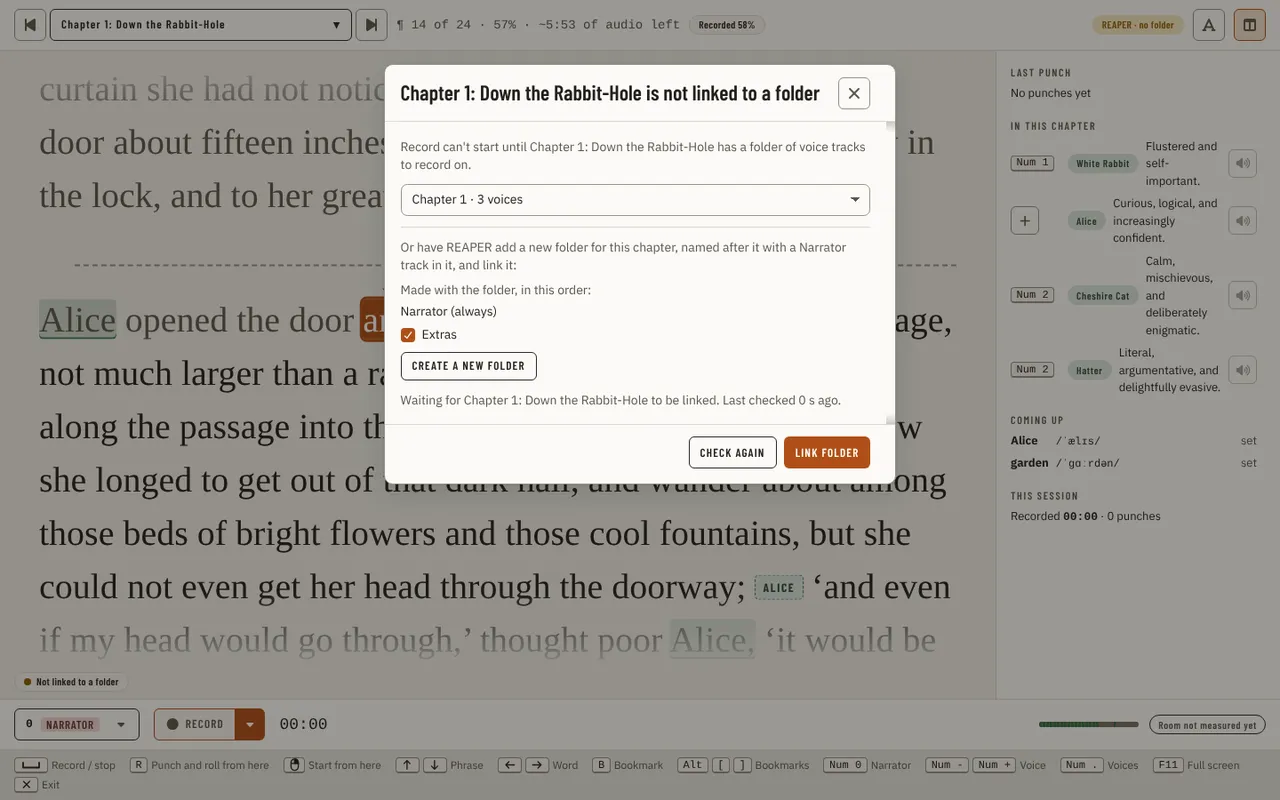
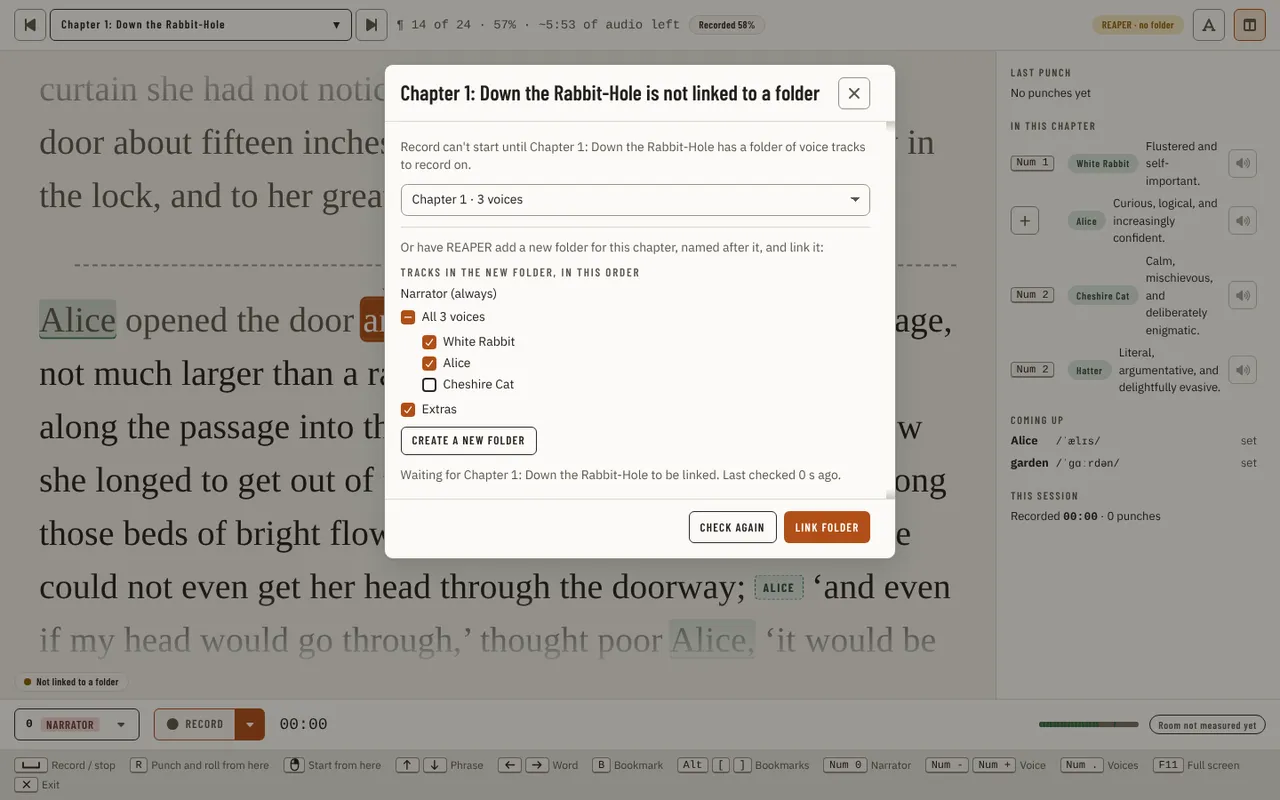
docs(guides): the new chapter folder images show a cast with voices
Refs #3748

Claude-Session: https://claude.ai/code/session_01EBTykevuJoEedqtRvqCegd

Changed region(s): [[0.2812, 0.3125, 0.7188, 0.7188], [0.5938, 0.2812, 0.6562, 0.3125]]

diff --git a/src/studio/ui/tests/visual/drivers/settings.ts b/src/studio/ui/tests/visual/drivers/settings.ts
@@ -237,7 +237,7 @@ export const settingsDrivers: Record<string, Driver> = {
     await row.getByRole('table', { name: /^Voices of / }).waitFor();
   },
   'recording-new-chapter-folder': async (page) => {
-    // The mock project assigns no voice but Extras, so the host's answer is set to the cast a real project has: three voices, one left out last time.
+    // The mock project assigns no voice but Extras, so the host's answer is set to the cast a real project has: three voices, all ticked (the default, so the row is not Changed).
     await page.addInitScript(() => {
       (window as unknown as { __NARRATION_MOCK_OVERRIDES__: Record<string, unknown> }).__NARRATION_MOCK_OVERRIDES__ = {
         chapterCreateOptions: async () => ({
@@ -246,7 +246,7 @@ export const settingsDrivers: Record<string, Driver> = {
           voices: [
             { name: 'White Rabbit', checked: true },
             { name: 'Alice', checked: true },
-            { name: 'Cheshire Cat', checked: false },
+            { name: 'Cheshire Cat', checked: true },
           ],
           extras: { name: 'Extras', checked: true },
         }),

diff --git a/src/studio/ui/tests/visual/catalog/settings.ts b/src/studio/ui/tests/visual/catalog/settings.ts
@@ -146,7 +146,7 @@ export const settingsStates: StateEntry[] = [
     page: 'settings',
     state: 'recording-new-chapter-folder',
     description:
-      'Settings, Recording & DAW (?mockVoiceFolders=1): the New chapter folder row under Chapter sync, with the Narrator as always made and the voices (White Rabbit and Alice ticked, Cheshire Cat left out) and Extras a new chapter folder is made with (#3748)',
+      'Settings, Recording & DAW (?mockVoiceFolders=1): the New chapter folder row under Chapter sync, with the Narrator as always made and the voices (White Rabbit, Alice and Cheshire Cat) and Extras a new chapter folder is made with, all ticked as by default (#3748)',
     ...REFLOW,
   },
   {
